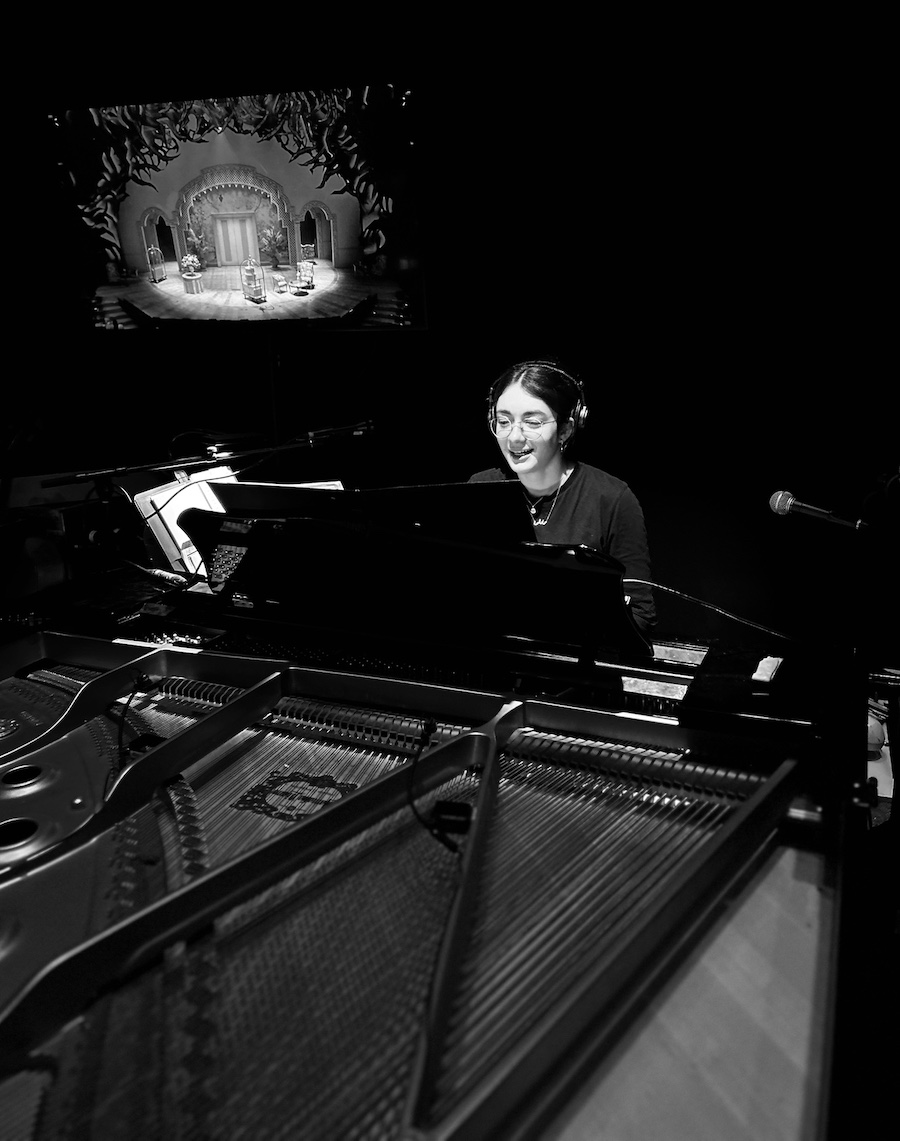
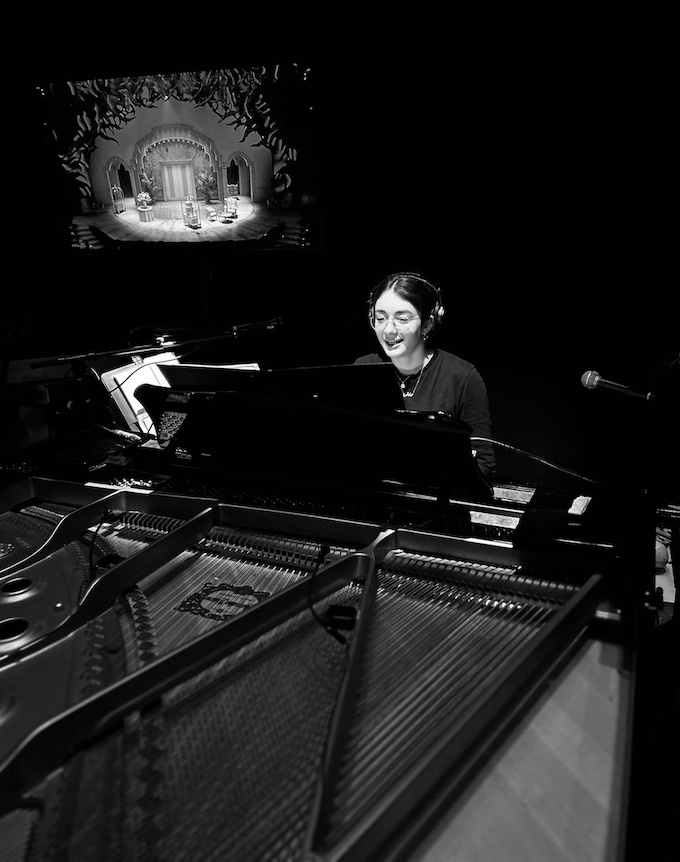
images smaller

diff --git a/index.html b/index.html
@@ -231,33 +231,33 @@ http://www.tooplate.com/view/2088-big-city
 
                                             <div class="grid-item">
                                                 <a href="img/creak1.jpg">
-                                                    <img src="img/creak1.jpg" alt="Image" class="img-fluid tm-img">
+                                                    <img src="img/creak1T.jpg" alt="Image" class="img-fluid tm-img">
                                                 </a>
                                             </div>
                                             <div class="grid-item">
                                                 <a href="img/creak2.jpg">
-                                                    <img src="img/creak2.jpg" alt="Image" class="img-fluid tm-img">
+                                                    <img src="img/creak2T.jpg" alt="Image" class="img-fluid tm-img">
                                                 </a>
                                             </div>
                                             <div class="grid-item">
                                                 <a href="img/n2nmb.jpg">
-                                                    <img src="img/n2nmb.jpg" alt="Image" class="img-fluid tm-img">
+                                                    <img src="img/n2nmbT.jpg" alt="Image" class="img-fluid tm-img">
                                                 </a>
                                             </div>
 
                                             <div class="grid-item">
                                                 <a href="img/n2n2.jpg">
-                                                    <img src="img/n2n2.jpg" alt="Image" class="img-fluid tm-img">
+                                                    <img src="img/n2n2T.jpg" alt="Image" class="img-fluid tm-img">
                                                 </a>
                                             </div>
                                             <div class="grid-item">
                                                 <a href="img/n2n1.jpg">
-                                                    <img src="img/n2n1.jpg" alt="Image" class="img-fluid tm-img">
+                                                    <img src="img/n2n1T.jpg" alt="Image" class="img-fluid tm-img">
                                                 </a>
                                             </div>
                                             <div class="grid-item">
                                                 <a href="img/n2n3.jpg">
-                                                    <img src="img/n2n3.jpg" alt="Image" class="img-fluid tm-img">
+                                                    <img src="img/n2n3T.jpg" alt="Image" class="img-fluid tm-img">
                                                 </a>
                                             </div>
 
@@ -402,7 +402,7 @@ http://www.tooplate.com/view/2088-big-city
                                             </div>
                                             <div class="grid-item">
                                                 <a href="img/creakers poster.jpg">
-                                                    <img src="img/creakers poster.jpg" alt="Image" class="img-fluid tm-img">
+                                                    <img src="img/creakers poster T.jpg" alt="Image" class="img-fluid tm-img">
                                                 </a>
                                             </div>
                                             <div class="grid-item">
